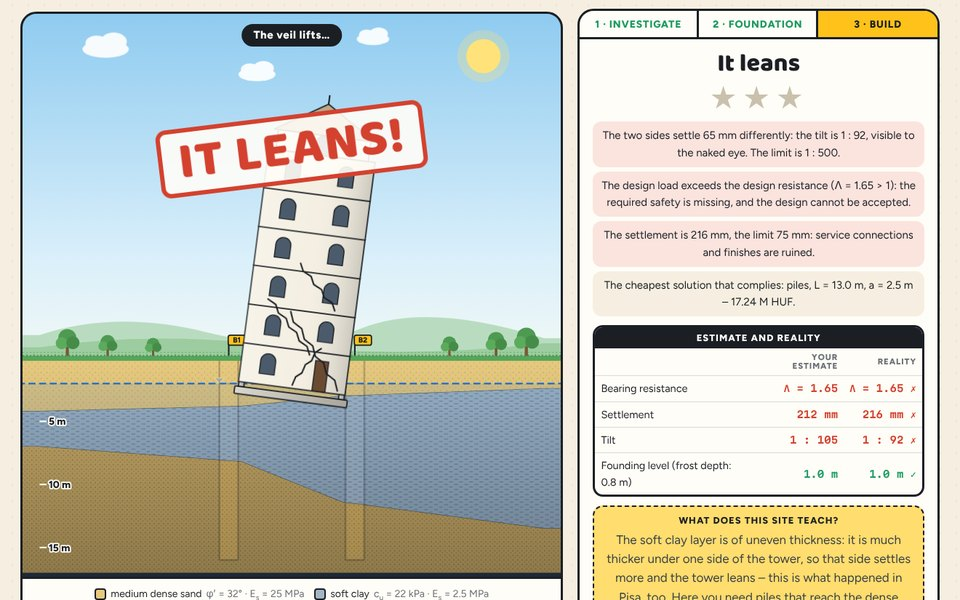
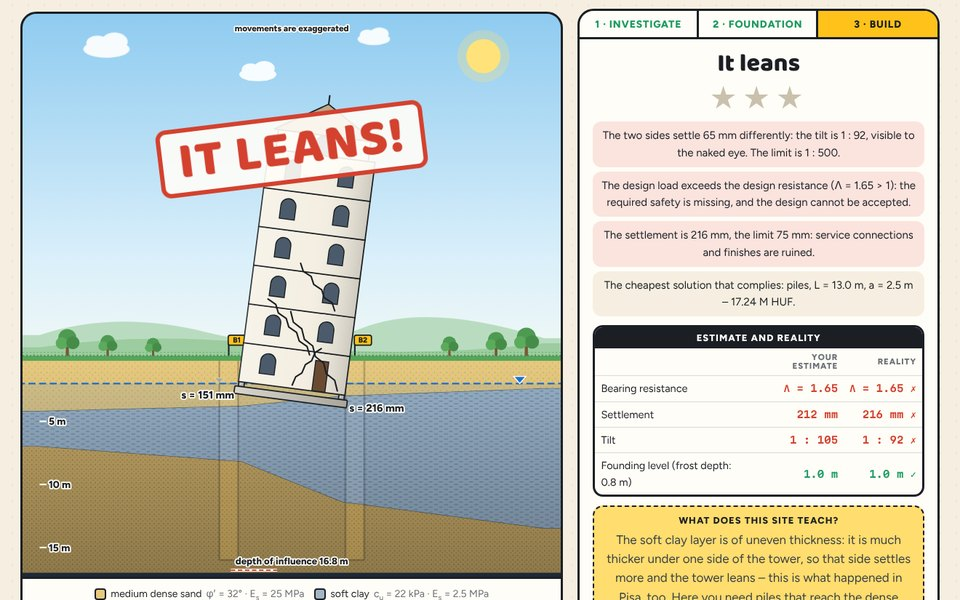
Áll vagy dől?: az építés vége helyreállítva (feliratok a rajzon, állapotjelző), ellenőrző szkriptek
Egy sorközi megjegyzés a sor végét is kikommentelte: az értékelés a köd felszállása előtt jelent meg,
a süllyedés- és határmélység-feliratok kimaradtak, az állapotjelző a rajzon maradt.
A _src/allvagydol/qa/endcheck.cjs mind a hat telket végigjátssza egy rossz és egy jó tervvel.

Claude-Session: https://claude.ai/code/session_01K6m2UEhsxB7yVkYJfvnvra

diff --git a/_src/allvagydol/game.js b/_src/allvagydol/game.js
@@ -183,7 +183,7 @@ const EN = L.lang === 'en', T = L.T, C = CORE;
     if (col) for (let i = 0; i < 9; i++) h('circle', { class: 'dust', cx: X(lv.x0) + (i / 8) * wpx, cy: GY - 6 - (i % 3) * 8, r: 16 + (i % 4) * 5, fill: '#cbbfa6', style: `animation-delay:${0.25 + i * 0.07}s` }, G.fx);
     await anim((col ? 1500 : 2300) * SP, u => { const e = col ? u * u : ease(u), a = yl * e, b = yr * e, ang = Math.atan2(b - a, wpx) * 180 / Math.PI; G.move.setAttribute('transform', `translate(0 ${(a + b) / 2}) rotate(${ang} ${cx} ${GY})`); }); if (!alive()) return;
     if (r.fail && r.fail !== 'uls') cracks(r, yr >= yl ? 1 : -1); await sleep((r.fail ? 800 : 300) * SP); if (!alive()) return;
-    status(T.a_reveal); G.fog.style.opacity = 0; G.interp.style.opacity = 0; $$('[data-i]', G.cols).forEach(c => { c.style.transition = 'opacity 1.3s ease'; c.style.opacity = 0.3; });   // a fúrások elhalványulnak, hogy ne látsszanak cölöpnek await sleep(1400 * SP); if (!alive()) return; annotate(r, yl, yr); status('');
+    status(T.a_reveal); G.fog.style.opacity = 0; G.interp.style.opacity = 0; $$('[data-i]', G.cols).forEach(c => { c.style.transition = 'opacity 1.3s ease'; c.style.opacity = 0.3; }); /* a fúrások elhalványulnak, hogy ne látsszanak cölöpnek */ await sleep(1400 * SP); if (!alive()) return; annotate(r, yl, yr); status('');
     const prev = SAVE.stars[lv.id] || 0; if (S.res.n > prev) { SAVE.stars[lv.id] = S.res.n; save(); } S.phase = 4; S.busy = false; soils(); stamp(r, S.res.n); panel(); levels(); total(); }
   function cracks(r, side) { const lv = S.lv, g = h('g', {}, G.bld), x0 = X(lv.x0 - 0.25), w = X(lv.W + 0.5), sh = (lv.id === 'pisa' ? 3.1 : 2.8) * SC; const zig = (x, y, n, dx, dy) => { let dd = `M${x} ${y}`, len = 0; for (let i = 0; i < n; i++) { const ax = dx * (0.6 + (i % 2) * 0.8), ay = dy * (0.7 + ((i + 1) % 2) * 0.6); dd += ` l${ax} ${ay}`; len += Math.hypot(ax, ay); } const p = h('path', { d: dd, class: 'crack', fill: 'none', stroke: '#1b1f24', 'stroke-width': 3, 'stroke-linejoin': 'round', 'stroke-linecap': 'round' }, g); p.style.setProperty('--len', Math.ceil(len) + 2); return p; };
     const xs = side > 0 ? x0 + w - 16 : x0 + 16, dir = -side; const heavy = r.fail === 'collapse' || r.fail === 'tilt';

diff --git a/allvagydol/en.html b/allvagydol/en.html
@@ -568,7 +568,7 @@ const EN = L.lang === 'en', T = L.T, C = CORE;
     if (col) for (let i = 0; i < 9; i++) h('circle', { class: 'dust', cx: X(lv.x0) + (i / 8) * wpx, cy: GY - 6 - (i % 3) * 8, r: 16 + (i % 4) * 5, fill: '#cbbfa6', style: `animation-delay:${0.25 + i * 0.07}s` }, G.fx);
     await anim((col ? 1500 : 2300) * SP, u => { const e = col ? u * u : ease(u), a = yl * e, b = yr * e, ang = Math.atan2(b - a, wpx) * 180 / Math.PI; G.move.setAttribute('transform', `translate(0 ${(a + b) / 2}) rotate(${ang} ${cx} ${GY})`); }); if (!alive()) return;
     if (r.fail && r.fail !== 'uls') cracks(r, yr >= yl ? 1 : -1); await sleep((r.fail ? 800 : 300) * SP); if (!alive()) return;
-    status(T.a_reveal); G.fog.style.opacity = 0; G.interp.style.opacity = 0; $$('[data-i]', G.cols).forEach(c => { c.style.transition = 'opacity 1.3s ease'; c.style.opacity = 0.3; });   // a fúrások elhalványulnak, hogy ne látsszanak cölöpnek await sleep(1400 * SP); if (!alive()) return; annotate(r, yl, yr); status('');
+    status(T.a_reveal); G.fog.style.opacity = 0; G.interp.style.opacity = 0; $$('[data-i]', G.cols).forEach(c => { c.style.transition = 'opacity 1.3s ease'; c.style.opacity = 0.3; }); /* a fúrások elhalványulnak, hogy ne látsszanak cölöpnek */ await sleep(1400 * SP); if (!alive()) return; annotate(r, yl, yr); status('');
     const prev = SAVE.stars[lv.id] || 0; if (S.res.n > prev) { SAVE.stars[lv.id] = S.res.n; save(); } S.phase = 4; S.busy = false; soils(); stamp(r, S.res.n); panel(); levels(); total(); }
   function cracks(r, side) { const lv = S.lv, g = h('g', {}, G.bld), x0 = X(lv.x0 - 0.25), w = X(lv.W + 0.5), sh = (lv.id === 'pisa' ? 3.1 : 2.8) * SC; const zig = (x, y, n, dx, dy) => { let dd = `M${x} ${y}`, len = 0; for (let i = 0; i < n; i++) { const ax = dx * (0.6 + (i % 2) * 0.8), ay = dy * (0.7 + ((i + 1) % 2) * 0.6); dd += ` l${ax} ${ay}`; len += Math.hypot(ax, ay); } const p = h('path', { d: dd, class: 'crack', fill: 'none', stroke: '#1b1f24', 'stroke-width': 3, 'stroke-linejoin': 'round', 'stroke-linecap': 'round' }, g); p.style.setProperty('--len', Math.ceil(len) + 2); return p; };
     const xs = side > 0 ? x0 + w - 16 : x0 + 16, dir = -side; const heavy = r.fail === 'collapse' || r.fail === 'tilt';

diff --git a/allvagydol/index.html b/allvagydol/index.html
@@ -569,7 +569,7 @@ const EN = L.lang === 'en', T = L.T, C = CORE;
     if (col) for (let i = 0; i < 9; i++) h('circle', { class: 'dust', cx: X(lv.x0) + (i / 8) * wpx, cy: GY - 6 - (i % 3) * 8, r: 16 + (i % 4) * 5, fill: '#cbbfa6', style: `animation-delay:${0.25 + i * 0.07}s` }, G.fx);
     await anim((col ? 1500 : 2300) * SP, u => { const e = col ? u * u : ease(u), a = yl * e, b = yr * e, ang = Math.atan2(b - a, wpx) * 180 / Math.PI; G.move.setAttribute('transform', `translate(0 ${(a + b) / 2}) rotate(${ang} ${cx} ${GY})`); }); if (!alive()) return;
     if (r.fail && r.fail !== 'uls') cracks(r, yr >= yl ? 1 : -1); await sleep((r.fail ? 800 : 300) * SP); if (!alive()) return;
-    status(T.a_reveal); G.fog.style.opacity = 0; G.interp.style.opacity = 0; $$('[data-i]', G.cols).forEach(c => { c.style.transition = 'opacity 1.3s ease'; c.style.opacity = 0.3; });   // a fúrások elhalványulnak, hogy ne látsszanak cölöpnek await sleep(1400 * SP); if (!alive()) return; annotate(r, yl, yr); status('');
+    status(T.a_reveal); G.fog.style.opacity = 0; G.interp.style.opacity = 0; $$('[data-i]', G.cols).forEach(c => { c.style.transition = 'opacity 1.3s ease'; c.style.opacity = 0.3; }); /* a fúrások elhalványulnak, hogy ne látsszanak cölöpnek */ await sleep(1400 * SP); if (!alive()) return; annotate(r, yl, yr); status('');
     const prev = SAVE.stars[lv.id] || 0; if (S.res.n > prev) { SAVE.stars[lv.id] = S.res.n; save(); } S.phase = 4; S.busy = false; soils(); stamp(r, S.res.n); panel(); levels(); total(); }
   function cracks(r, side) { const lv = S.lv, g = h('g', {}, G.bld), x0 = X(lv.x0 - 0.25), w = X(lv.W + 0.5), sh = (lv.id === 'pisa' ? 3.1 : 2.8) * SC; const zig = (x, y, n, dx, dy) => { let dd = `M${x} ${y}`, len = 0; for (let i = 0; i < n; i++) { const ax = dx * (0.6 + (i % 2) * 0.8), ay = dy * (0.7 + ((i + 1) % 2) * 0.6); dd += ` l${ax} ${ay}`; len += Math.hypot(ax, ay); } const p = h('path', { d: dd, class: 'crack', fill: 'none', stroke: '#1b1f24', 'stroke-width': 3, 'stroke-linejoin': 'round', 'stroke-linecap': 'round' }, g); p.style.setProperty('--len', Math.ceil(len) + 2); return p; };
     const xs = side > 0 ? x0 + w - 16 : x0 + 16, dir = -side; const heavy = r.fail === 'collapse' || r.fail === 'tilt';
